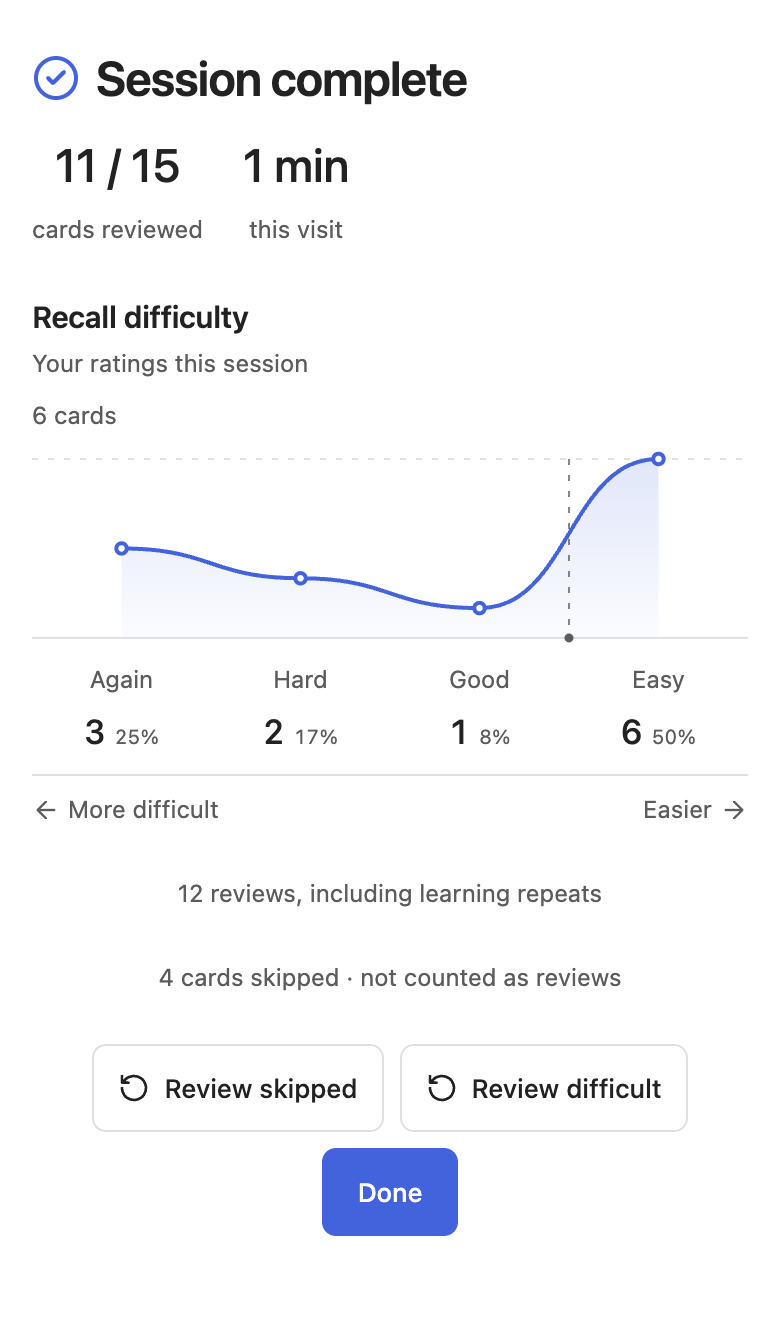
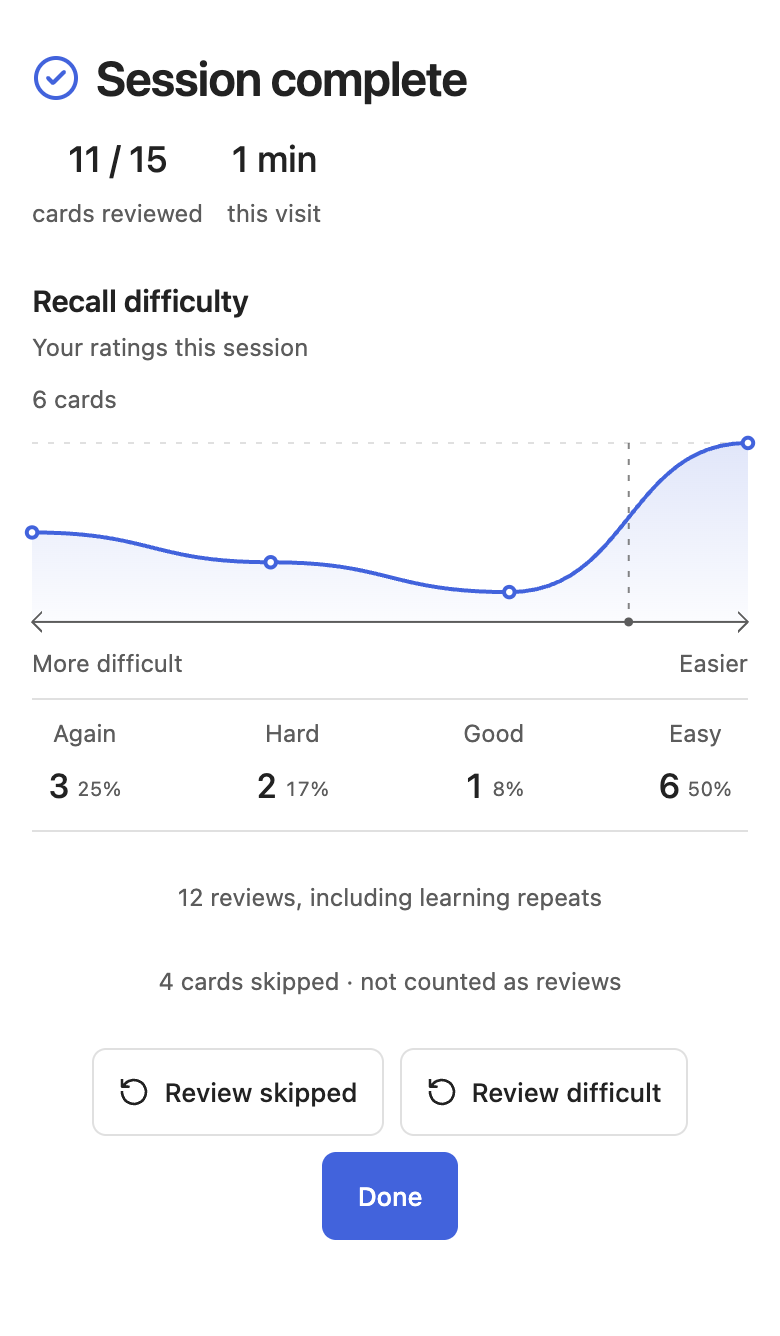
Refresh session summary layout comparisons

diff --git a/docs/images/ui-main-latest/audit-report.md b/docs/images/ui-main-latest/audit-report.md
@@ -1,3 +1,18 @@
+# Session summary verification
+
+Latest source `9b11b132d5b3d93ea3bde05bece418f96e0d2c20`. Baseline is upstream main `70056821914f0dae910b52a20f1fa3329b04d0ac`.
+
+- The curve and filled region now span the full 480-unit plot width. The median uses the same updated coordinates.
+- Both arrowheads attach to the horizontal plot axis. Direction labels follow the plot and have a separator below them.
+- Rating cells distribute with space-between, equal horizontal insets and centered content. Percentages align vertically with counts, and the rating row ends with a separator.
+- Summary metrics stay on one line and use a smaller font at compact widths.
+- All 32 browser layout cases passed across 320, 390, 640, 641, 768, 1100 and 1440px widths, plus a narrow pane in a wide window. Both themes were checked with regular and larger metric text. Checks cover curve/fill bounds, axis markers, row order, separators, cell alignment, nowrap statistics and page overflow.
+- Full npm run check passed with 767 tests in 95 suites. The existing median-coordinate tests were adjusted. Formatting, TypeScript, lint, CSS lint, build and release checks passed. No test cases were added.
+- Two refreshed main-to-latest screenshots replace the existing mobile and desktop summary examples. The gallery remains 50 pairs.
+- The isolated test plugin installation and protected-file hashes are verified before completion.
+
+## Prior verification at `52ce8c5`
+
 # Content width verification
 
 Latest source `52ce8c5c7b39957377403405aa0c1aded1ff7507`. Screenshot baseline is upstream main `70056821914f0dae910b52a20f1fa3329b04d0ac`.
